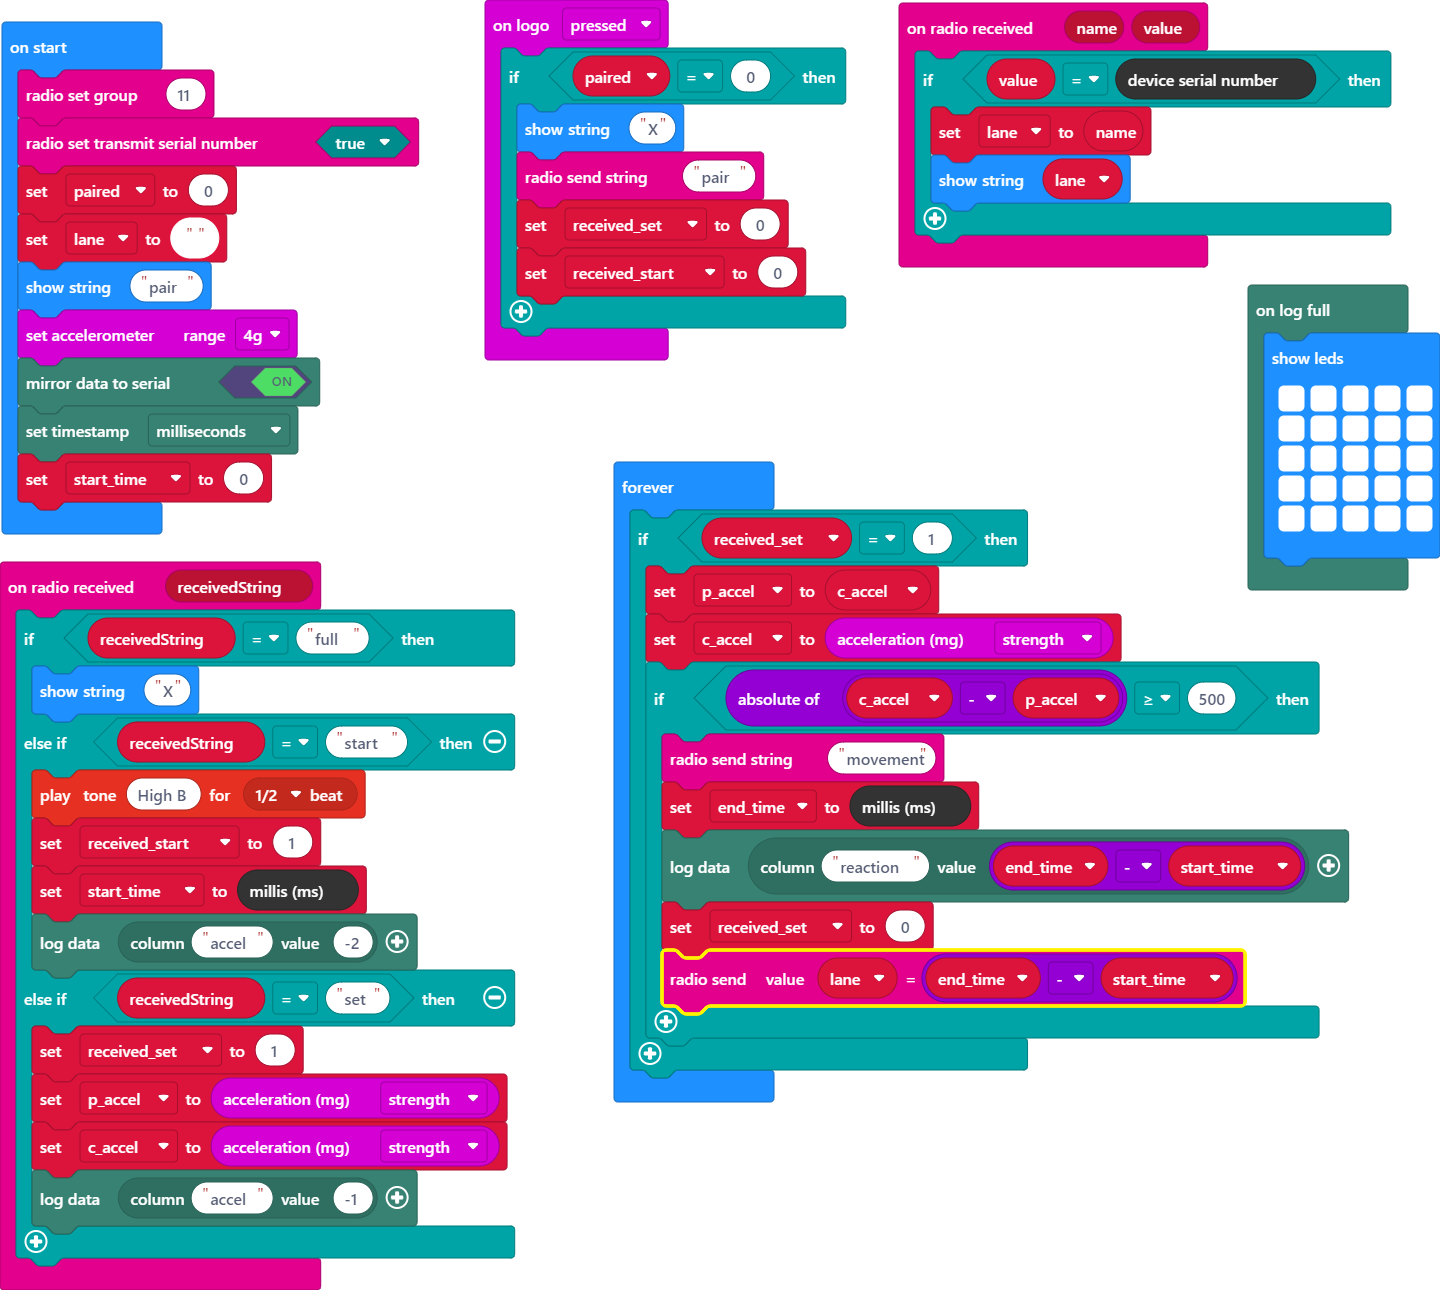
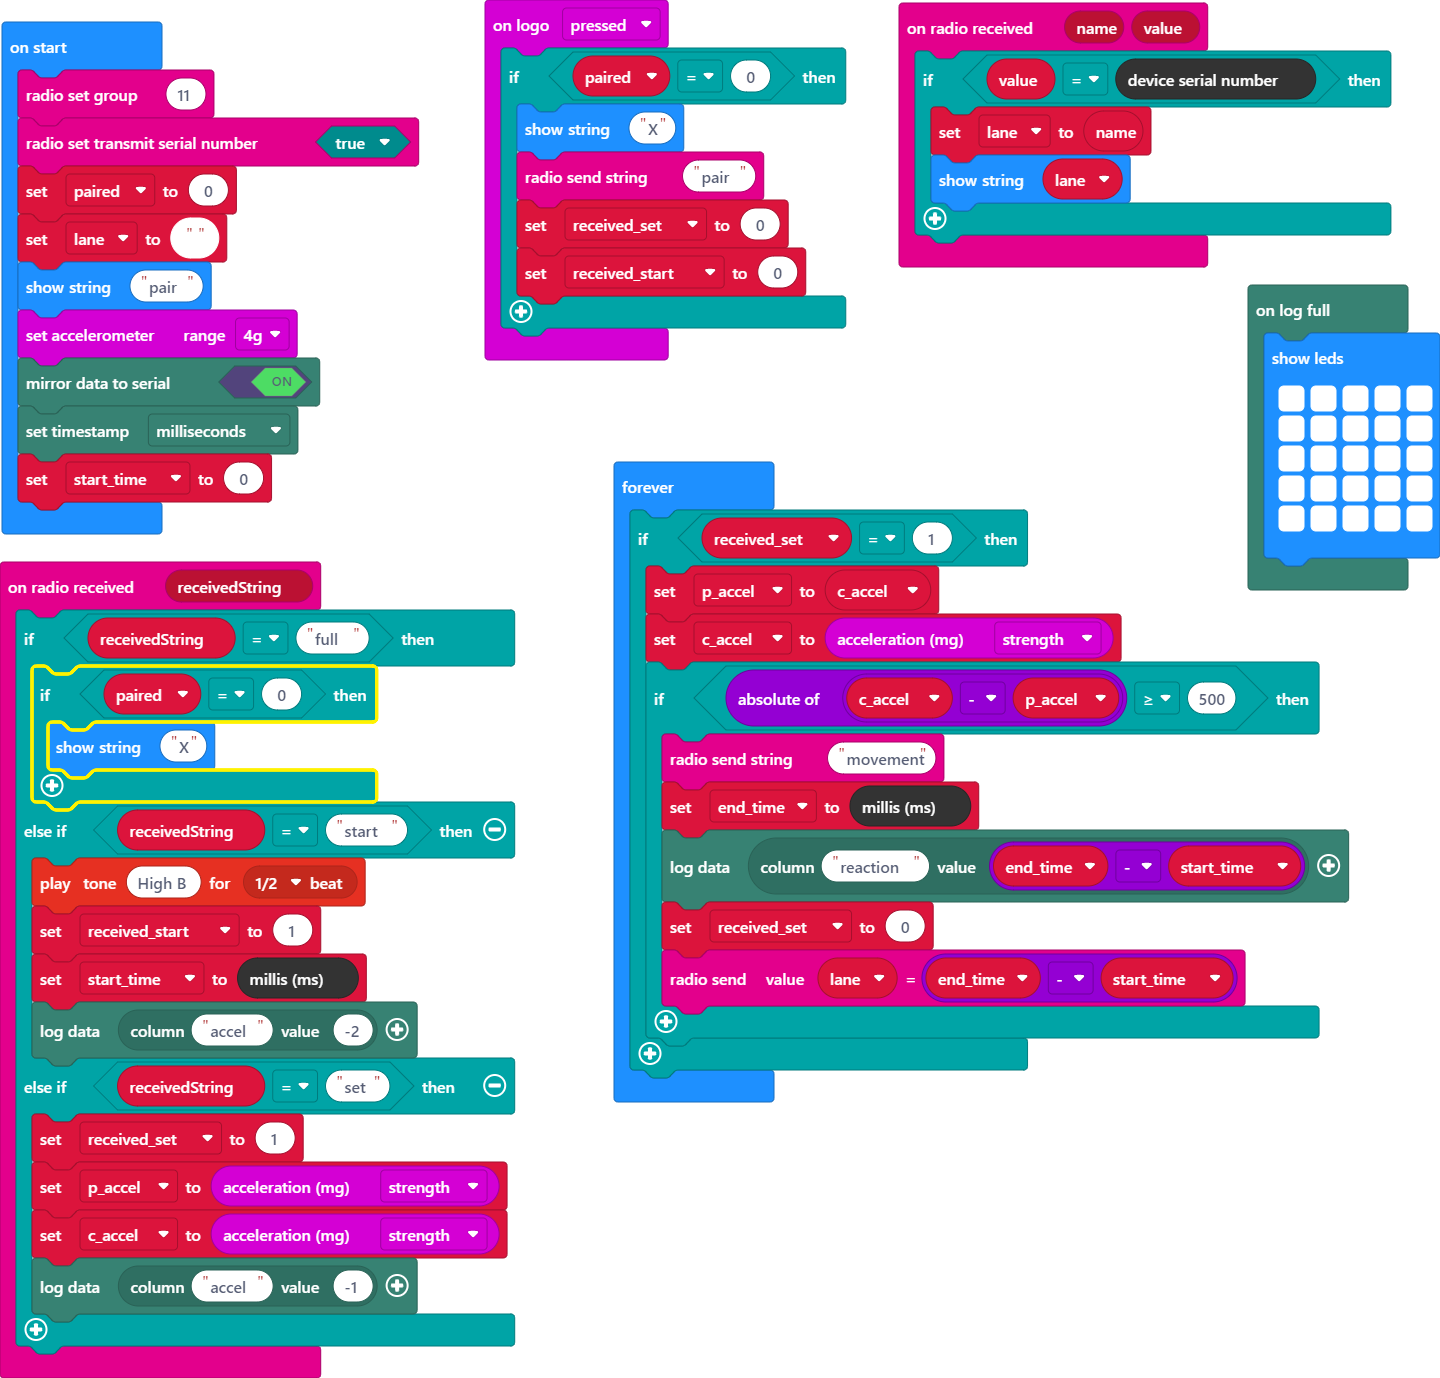
Update main.blocks, main.ts

diff --git a/main.ts b/main.ts
@@ -9,7 +9,9 @@ datalogger.onLogFull(function () {
 })
 radio.onReceivedString(function (receivedString) {
     if (receivedString == "full") {
-        basic.showString("X")
+        if (paired == 0) {
+            basic.showString("X")
+        }
     } else if (receivedString == "start") {
         music.playTone(988, music.beat(BeatFraction.Half))
         received_start = 1
